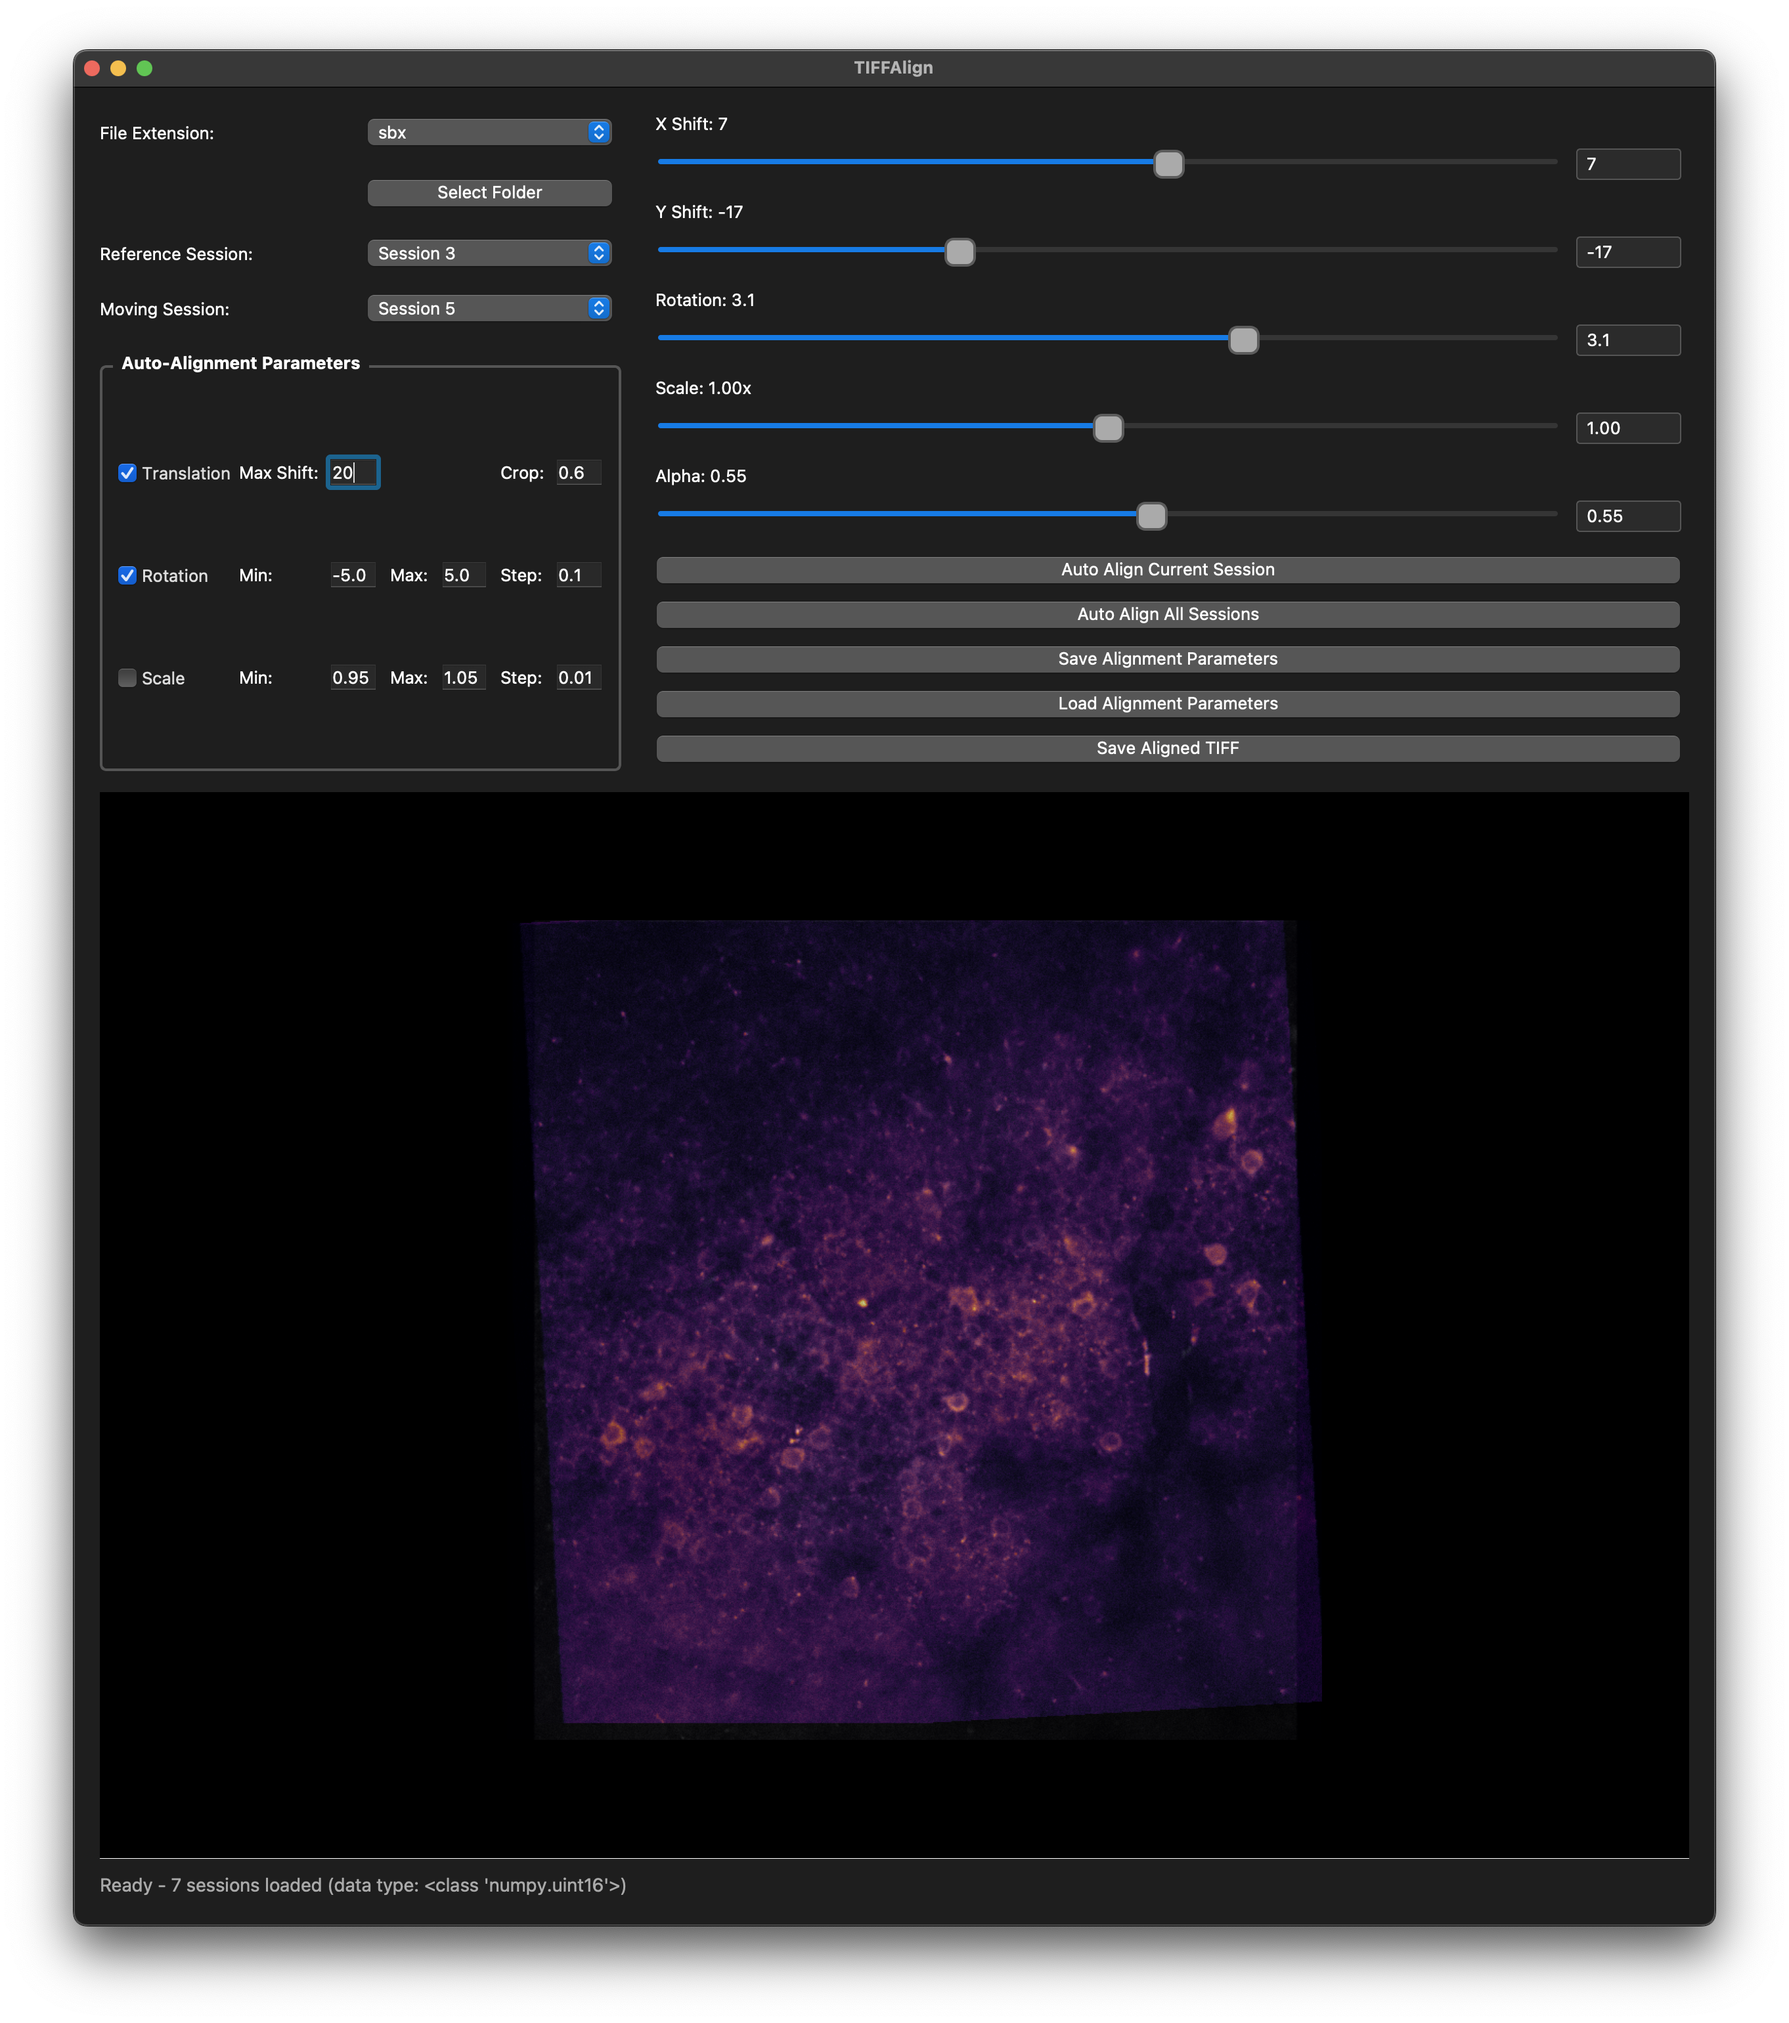
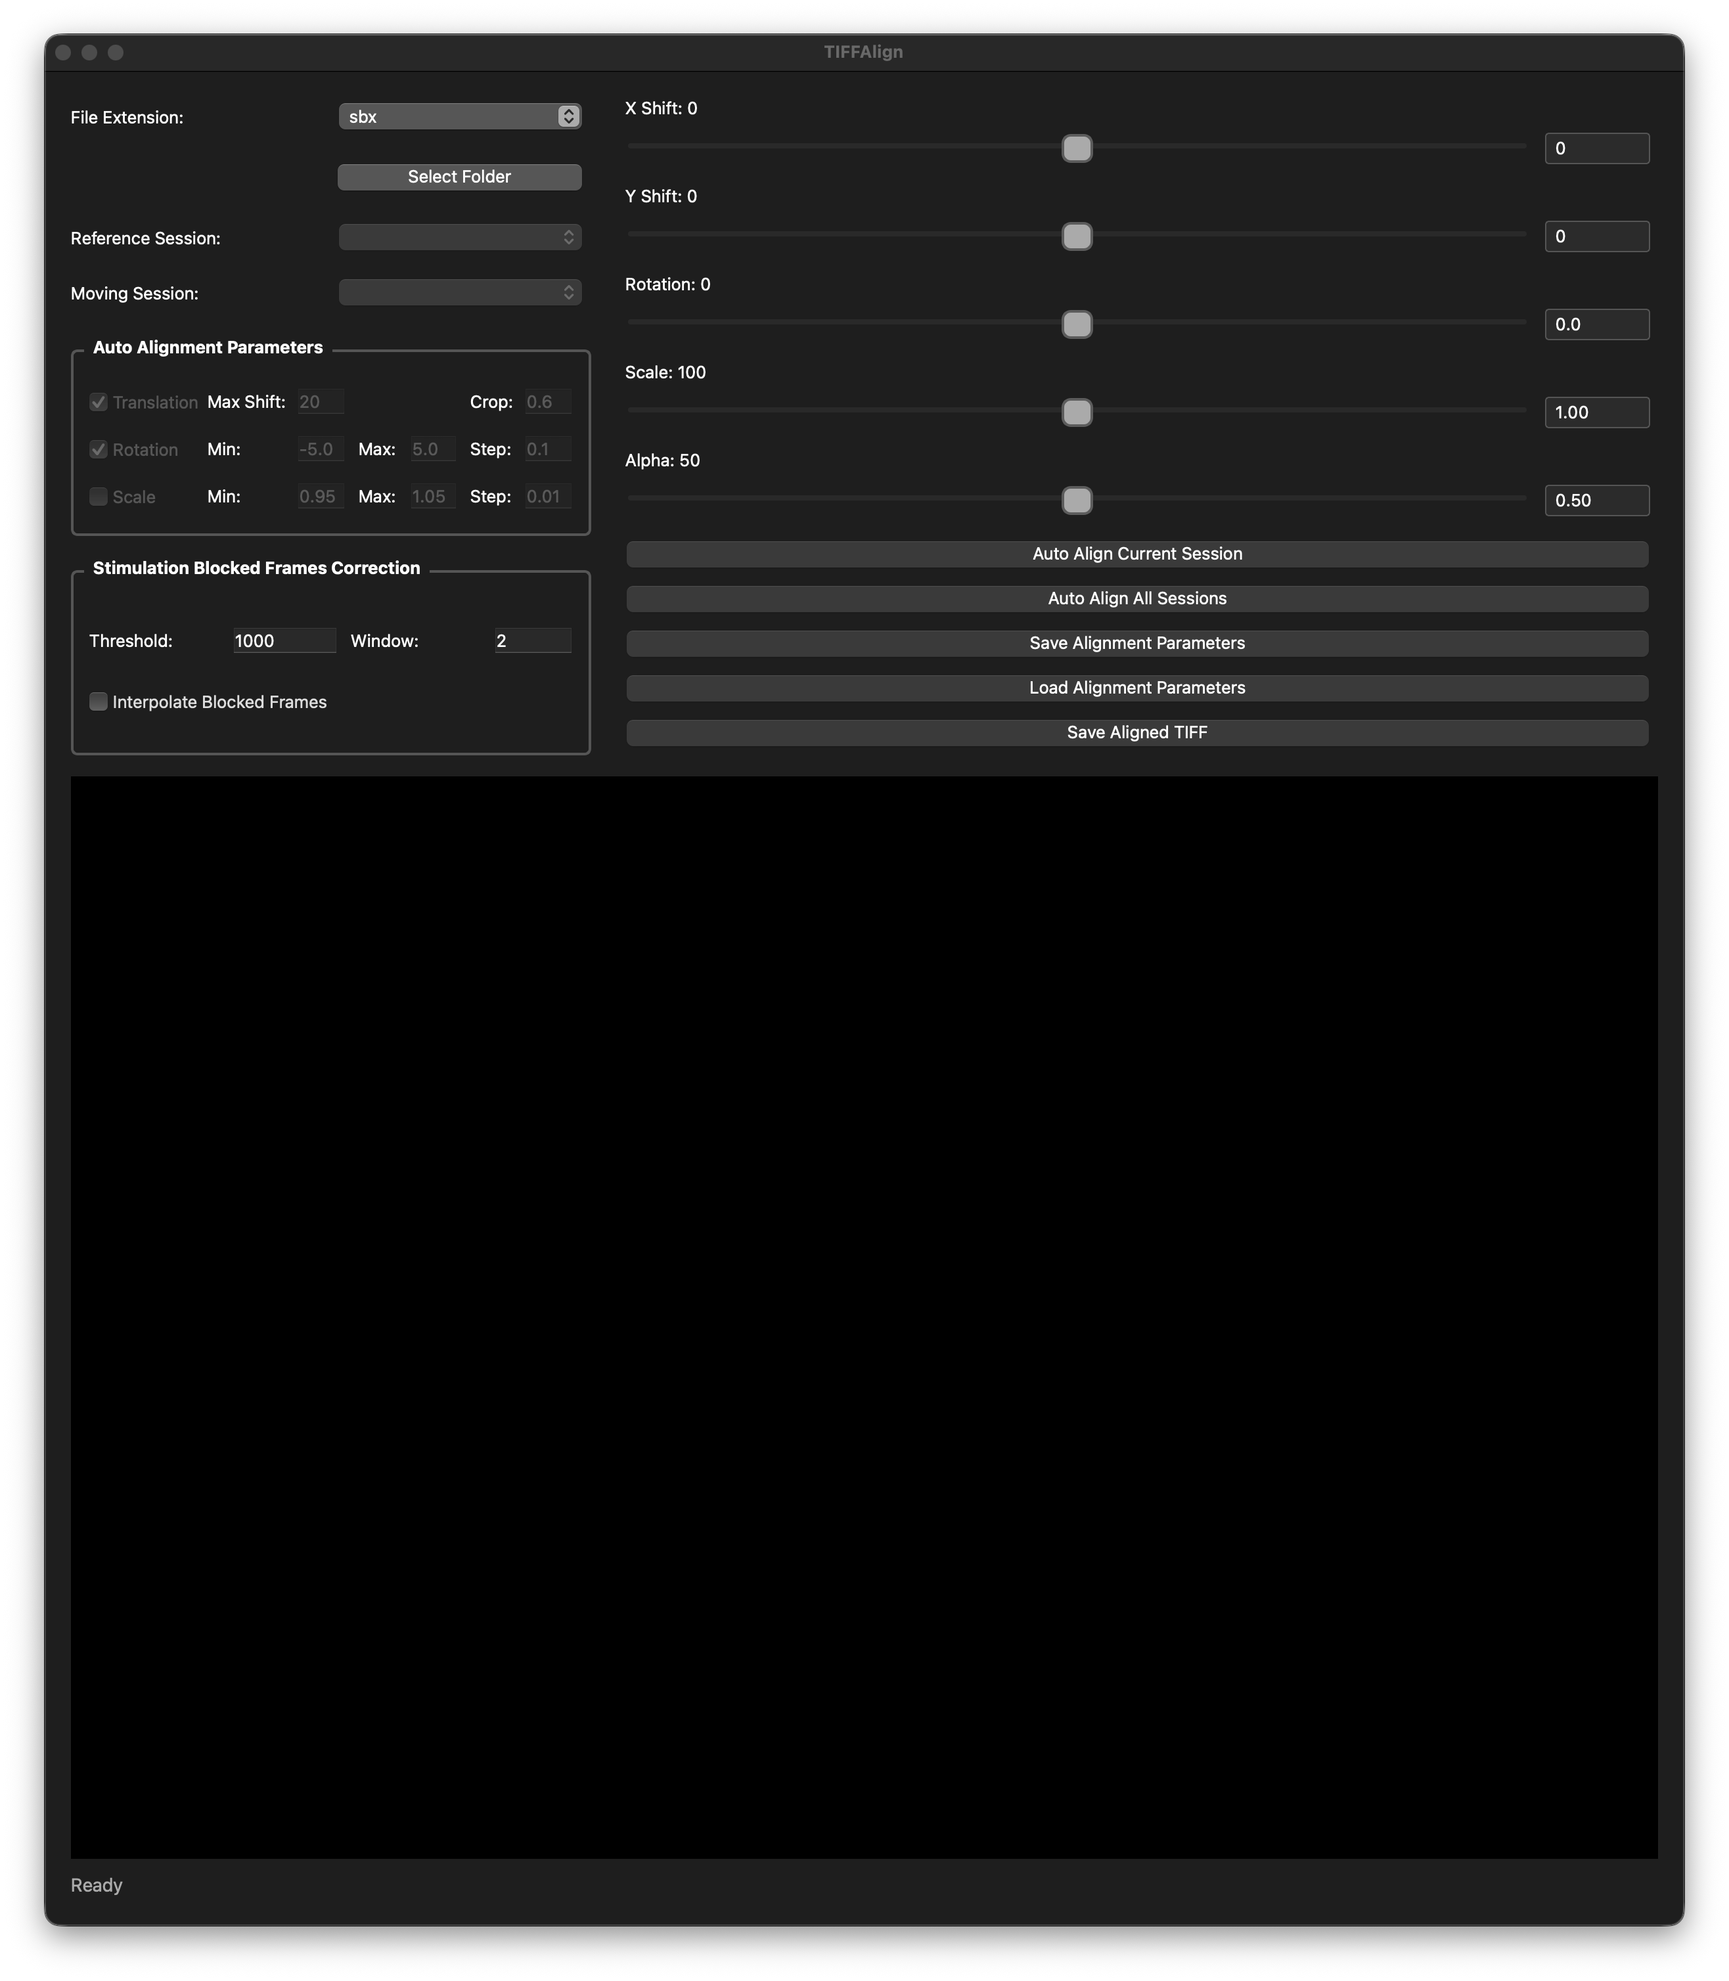
Added function to interpolate 2P stimulation blocked frames

diff --git a/TIFFAlign.py b/TIFFAlign.py
@@ -60,6 +60,53 @@ def load_tiff_optimized(filepath, max_frames=100):
             frames.append(tif.pages[i].asarray())
         
         return np.array(frames), n_frames, dtype
+    
+def correct_blocked_lines(data, threshold=1000, n_max_window=2):
+
+    n_frames, height, _ = data.shape
+    corrected = data.copy()
+
+    # Precompute which rows are blocked in each frame
+    blocked_mask = np.zeros((n_frames, height), dtype=bool)
+    for i in range(n_frames):
+        row_means = data[i].mean(axis=1)
+        blocked_mask[i, :] = row_means < threshold
+
+    for i in range(n_frames):
+
+        blocked_rows = np.where(blocked_mask[i])[0]
+
+        # Skip frames without stimulation
+        if len(blocked_rows) == 0:
+            continue
+
+        for r in blocked_rows:
+            clean_before = None
+            clean_after = None
+            
+            # Find the clean rows before
+            for k in range(1, n_max_window+1):
+                if i - k >= 0 and not blocked_mask[i - k, r]:
+                    clean_before = data[i - k, r, :]
+                    break
+            # Find the clean rows after
+            for k in range(1, n_max_window+1):
+                if i + k < n_frames and not blocked_mask[i + k, r]:
+                    clean_after = data[i + k, r, :]
+                    break
+
+            # Compute corrected row based on findings
+            if clean_before is not None and clean_after is not None:
+                corrected_row = np.stack([clean_before, clean_after]).mean(axis=0).astype(np.uint16)
+            elif clean_before is not None:
+                corrected_row = clean_before.copy()
+            elif clean_after is not None:
+                corrected_row = clean_after.copy()
+            else:
+                corrected_row = np.zeros_like(data[i, r, :], dtype=np.uint16)
+            corrected[i, r, :] = corrected_row
+            
+    return corrected
 
 # --- Background Loading Thread ---
 class DataLoaderThread(QThread):
@@ -138,7 +185,7 @@ class SaveThread(QThread):
     status_updated = pyqtSignal(str)
     saving_finished = pyqtSignal(bool, str)
 
-    def __init__(self, folderpath, exten, params_all, ref_idx, savepath, detected_dtype):
+    def __init__(self, folderpath, exten, params_all, ref_idx, savepath, detected_dtype, blocked_sessions=None, blocked_threshold=1000, blocked_window=2):
         super().__init__()
         self.folderpath = folderpath
         self.exten = exten
@@ -146,6 +193,9 @@ class SaveThread(QThread):
         self.ref_idx = ref_idx
         self.savepath = savepath
         self.detected_dtype = detected_dtype
+        self.blocked_sessions = set(blocked_sessions or [])
+        self.blocked_threshold = int(blocked_threshold)
+        self.blocked_window = int(blocked_window)
 
     def run(self):
         try:
@@ -204,25 +254,39 @@ class SaveThread(QThread):
                     params = self.params_all['sessions'].get(nn, {'x_shift': 0, 'y_shift': 0, 'rotation': 0, 'scale': 1.0})
 
                     chunk_size = 1000
+                    apply_correction = nn in self.blocked_sessions
                     for i in range(0, frames.shape[0], chunk_size):
                         end_idx = min(i + chunk_size, frames.shape[0])
-                        chunk = frames[i:end_idx]
 
-                        for frame in chunk:
+                        if apply_correction:
+                            # Create overlapped window to preserve neighbors across chunk boundaries
+                            win_start = max(0, i - self.blocked_window)
+                            win_end = min(frames.shape[0], end_idx + self.blocked_window)
+                            window = frames[win_start:win_end]
+                            try:
+                                window_corr = correct_blocked_lines(window, threshold=self.blocked_threshold, n_max_window=self.blocked_window)
+                            except Exception as e:
+                                self.status_updated.emit(f"Blocked-lines correction error (session {nn}): {e}. Skipping correction for this window.")
+                                window_corr = window
+                            core_start = i - win_start
+                            core_end = core_start + (end_idx - i)
+                            chunk_iter = window_corr[core_start:core_end]
+                        else:
+                            chunk_iter = frames[i:end_idx]
+
+                        for frame in chunk_iter:
                             if nn != self.ref_idx:
                                 # Apply scaling
                                 if params['scale'] != 1.0:
                                     scaled = zoom(frame, params['scale'], order=0)
                                     # Crop or pad to match original size
                                     if params['scale'] > 1.0:
-                                        # If scaled up, crop to center
                                         h, w = frame.shape
                                         sh, sw = scaled.shape
                                         start_h = (sh - h) // 2
                                         start_w = (sw - w) // 2
                                         scaled = scaled[start_h:start_h+h, start_w:start_w+w]
                                     else:
-                                        # If scaled down, pad to original size
                                         h, w = frame.shape
                                         sh, sw = scaled.shape
                                         pad_h = (h - sh) // 2
@@ -231,7 +295,6 @@ class SaveThread(QThread):
                                         padded[pad_h:pad_h+sh, pad_w:pad_w+sw] = scaled
                                         scaled = padded
                                     frame = scaled
-                                
                                 # Apply rotation and shift
                                 rotated = rotate(frame, params['rotation'], reshape=False, order=0)
                                 frame = shift(rotated, [params['y_shift'], params['x_shift']], order=0)
@@ -239,7 +302,6 @@ class SaveThread(QThread):
 
                             # Update progress
                             frames_done += 1
-                            # Avoid excessive signal emissions by batching a bit
                             if total_frames > 0 and frames_done % 50 == 0:
                                 progress = int(frames_done / total_frames * 100)
                                 self.progress_updated.emit(progress)
@@ -451,6 +513,9 @@ class AlignGUI(QWidget):
         self.session_selector = QComboBox()
         add_row("Moving Session:", self.session_selector)
 
+        # --- Blocked-Frames Correction Section --- (moved below Auto Alignment Parameters)
+        # will be created after the parameter group
+
         # --- Parameter Configuration Section ---
         param_group = QGroupBox("Auto Alignment Parameters")
         param_group.setStyleSheet("""
@@ -527,6 +592,40 @@ class AlignGUI(QWidget):
         
         param_group.setLayout(param_layout)
         selectors_layout.addWidget(param_group)
+
+        # Now add the Blocked-Frames Correction Section below the parameters
+        self.correction_group = QGroupBox("Stimulation Blocked Frames Correction")
+        self.correction_group.setStyleSheet("""
+            QGroupBox {
+                font-weight: bold;
+                border: 2px solid #555555;
+                border-radius: 5px;
+                margin-top: 10px;
+                padding-top: 10px;
+            }
+            QGroupBox::title {
+                subcontrol-origin: margin;
+                left: 10px;
+                padding: 0 5px 0 5px;
+            }
+        """)
+        self.correction_layout = QGridLayout()
+        # Inputs for parameters
+        self.correction_layout.addWidget(QLabel("Threshold:"), 0, 0)
+        self.correction_threshold_input = QLineEdit("1000")
+        self.correction_threshold_input.setMaximumWidth(80)
+        self.correction_layout.addWidget(self.correction_threshold_input, 0, 1)
+        self.correction_layout.addWidget(QLabel("Window:"), 0, 2)
+        self.correction_window_input = QLineEdit("2")
+        self.correction_window_input.setMaximumWidth(60)
+        self.correction_layout.addWidget(self.correction_window_input, 0, 3)
+        # Single checkbox to enable/disable correction on all sessions
+        self.correction_enable_checkbox = QCheckBox("Interpolate Blocked Frames")
+        self.correction_enable_checkbox.setChecked(False)
+        self.correction_layout.addWidget(self.correction_enable_checkbox, 1, 0, 1, 4)
+        self.correction_group.setLayout(self.correction_layout)
+        selectors_layout.addWidget(self.correction_group)
+        # No per-session selection state needed
 
         # --- Sliders ---
         self.x_label, self.x_slider, self.x_input = self.create_slider("X Shift", -50, 50, 0, sliders_layout)
@@ -866,6 +965,8 @@ class AlignGUI(QWidget):
         self.ref_selector.clear()
         self.ref_selector.addItems([f"Session {i}" for i in range(self.n_sessions)])
 
+        # Nothing to reset for global correction toggle
+
         # Reconnect signals
         self.session_selector.currentIndexChanged.connect(self.change_session)
         self.ref_selector.currentIndexChanged.connect(self.change_reference)
@@ -886,6 +987,8 @@ class AlignGUI(QWidget):
         
         self.status_label.setText(f"Ready - {self.n_sessions} sessions loaded (data type: {self.detected_dtype})")
         self.update_image()
+
+    # Removed per-session selection dialog
 
     # ------------------- Session Changes -------------------
     def change_session(self, selector_idx):
@@ -1026,8 +1129,32 @@ class AlignGUI(QWidget):
         self.progress_bar.setValue(0)
         self.enable_controls(False)
 
+        # Gather correction selections and params
+        if self.correction_enable_checkbox.isChecked():
+            selected_sessions = list(range(self.n_sessions))
+        else:
+            selected_sessions = []
+        try:
+            corr_threshold = int(float(self.correction_threshold_input.text()))
+        except Exception:
+            corr_threshold = 1000
+        try:
+            corr_window = int(float(self.correction_window_input.text()))
+        except Exception:
+            corr_window = 2
+
         # Start background save thread
-        self.save_thread = SaveThread(self.folderpath, self.exten, self.params_all, self.ref_idx, self.savepath.as_posix(), self.detected_dtype)
+        self.save_thread = SaveThread(
+            self.folderpath,
+            self.exten,
+            self.params_all,
+            self.ref_idx,
+            self.savepath.as_posix(),
+            self.detected_dtype,
+            blocked_sessions=selected_sessions,
+            blocked_threshold=corr_threshold,
+            blocked_window=corr_window
+        )
         self.save_thread.progress_updated.connect(self.progress_bar.setValue)
         self.save_thread.status_updated.connect(self.status_label.setText)
         self.save_thread.saving_finished.connect(self.on_saving_finished)

diff --git a/README.md b/README.md
@@ -22,6 +22,7 @@ Although many excellent automated motion correction algorithms exist, they are g
 - **Auto alignment** with grid search
 - Save / load alignment parameters
 - Export aligned sessions as a concatenated tiff file.
+- **Interpolate** 2P stimulation blocked frames.
 - Dark theme interface with **live overlay preview**
 
 
@@ -75,8 +76,19 @@ python TIFFAlign.py
    - Rotation
    - Scaling
    - Alpha (Transparency)
-7. Save alignment parameters for later use.
-8. Export the aligned file with **Save Aligned TIFF**.  
+7. (Optional) Save alignment parameters for later use.
+8. (Optional) Interpolate 2P stimulation blocked frames in **"Stimulation Blocked Frames Correction"**:
+   - During 2P optogenetic stimulation, the PMT is often shuttered for a short period, producing horizontal “blocked” (dark) rows in the recording. To minimize the impact of these artifacts in downstream processing, you can optionally interpolate the blocked rows using the mean of the nearest clean rows from adjacent frames.
+   - Blocked rows are identified by calculating their mean intensity and comparing it to a **threshold**. For `uint16` videos, the default threshold is 1000.
+   - A **window** parameter defines how many frames before and after a blocked frame to search for clean rows (default: 2).
+      - If both previous and next clean rows are found → the mean of the two is used.
+      - If only one clean row is found → that row is used.
+      - If no clean rows are found within the window → the row is filled with zeros.
+   - **Check the checkbox** to apply interpolation during the saving process. 
+
+![Interpolation Sample](preview/video_interpolation_sample.png)
+
+9. Export the aligned file with **Save Aligned TIFF**.  
    - Files are read using `memmap` by default for efficiency.  
    - The output TIFF is written using the detected data type of the original files (for `.sbx` files, `uint16` is used).  
    - If `memmap` fails, the tool automatically falls back to `imread`, which loads the entire file into memory.  
